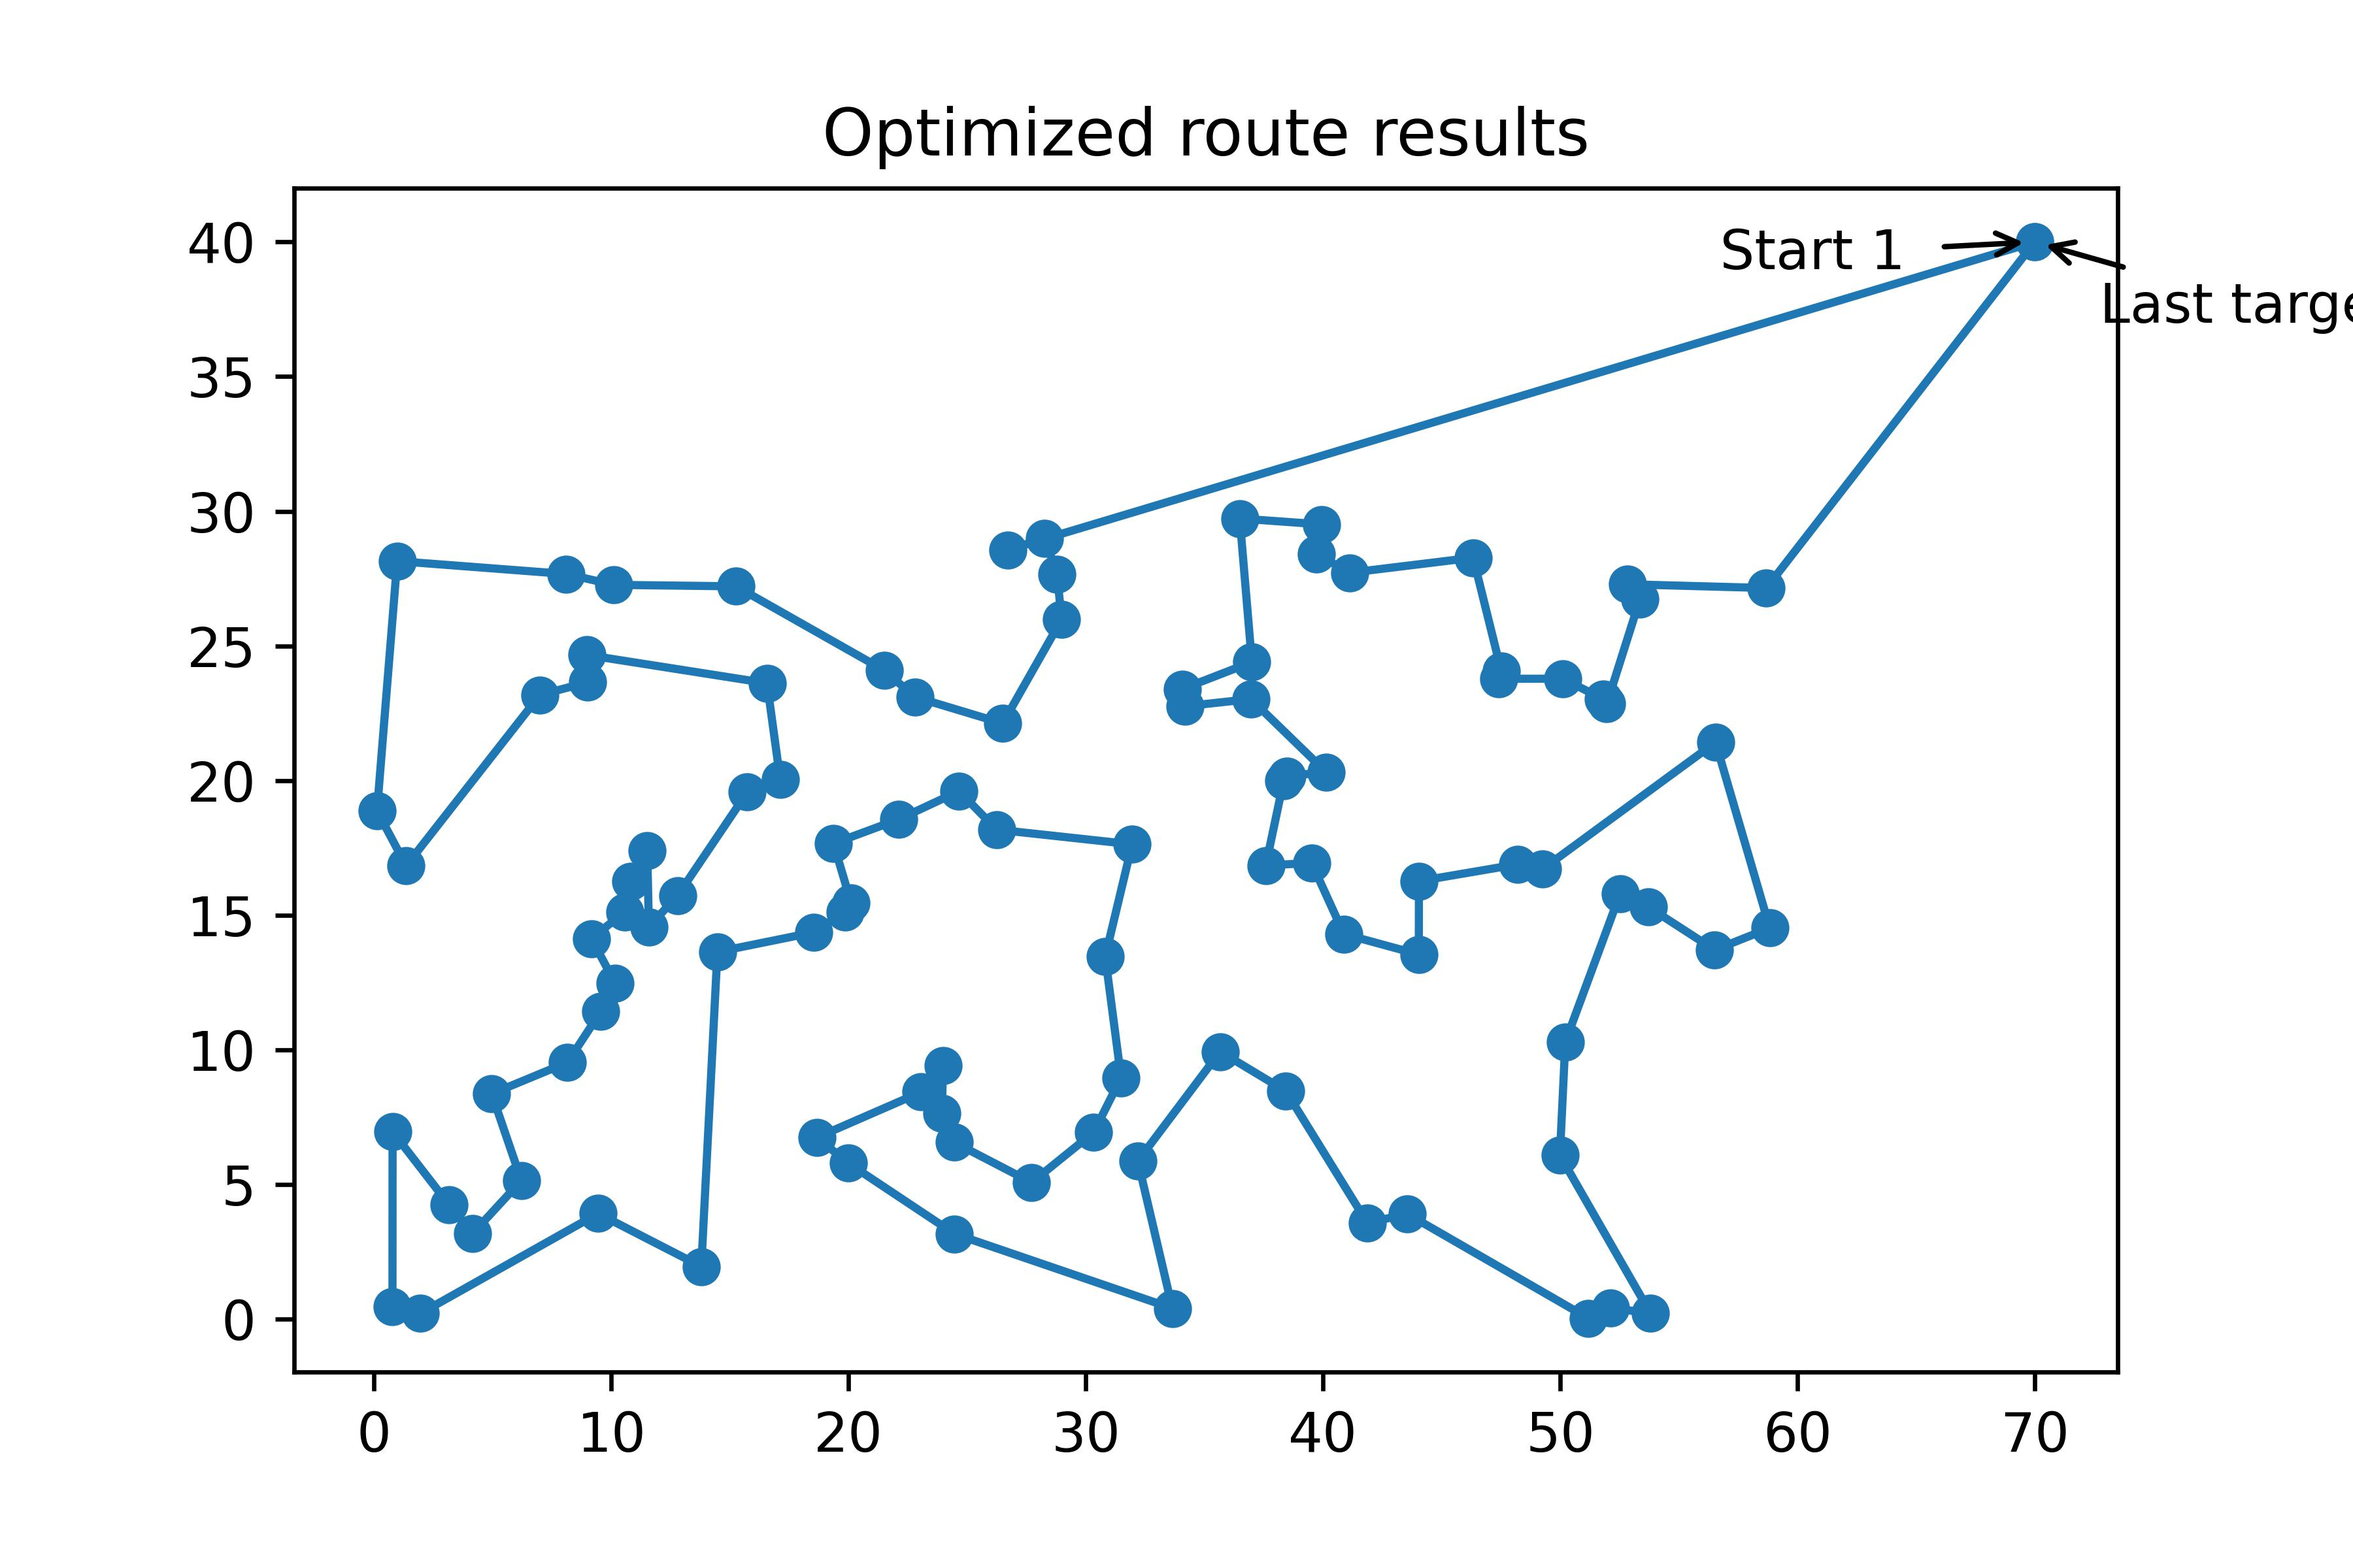
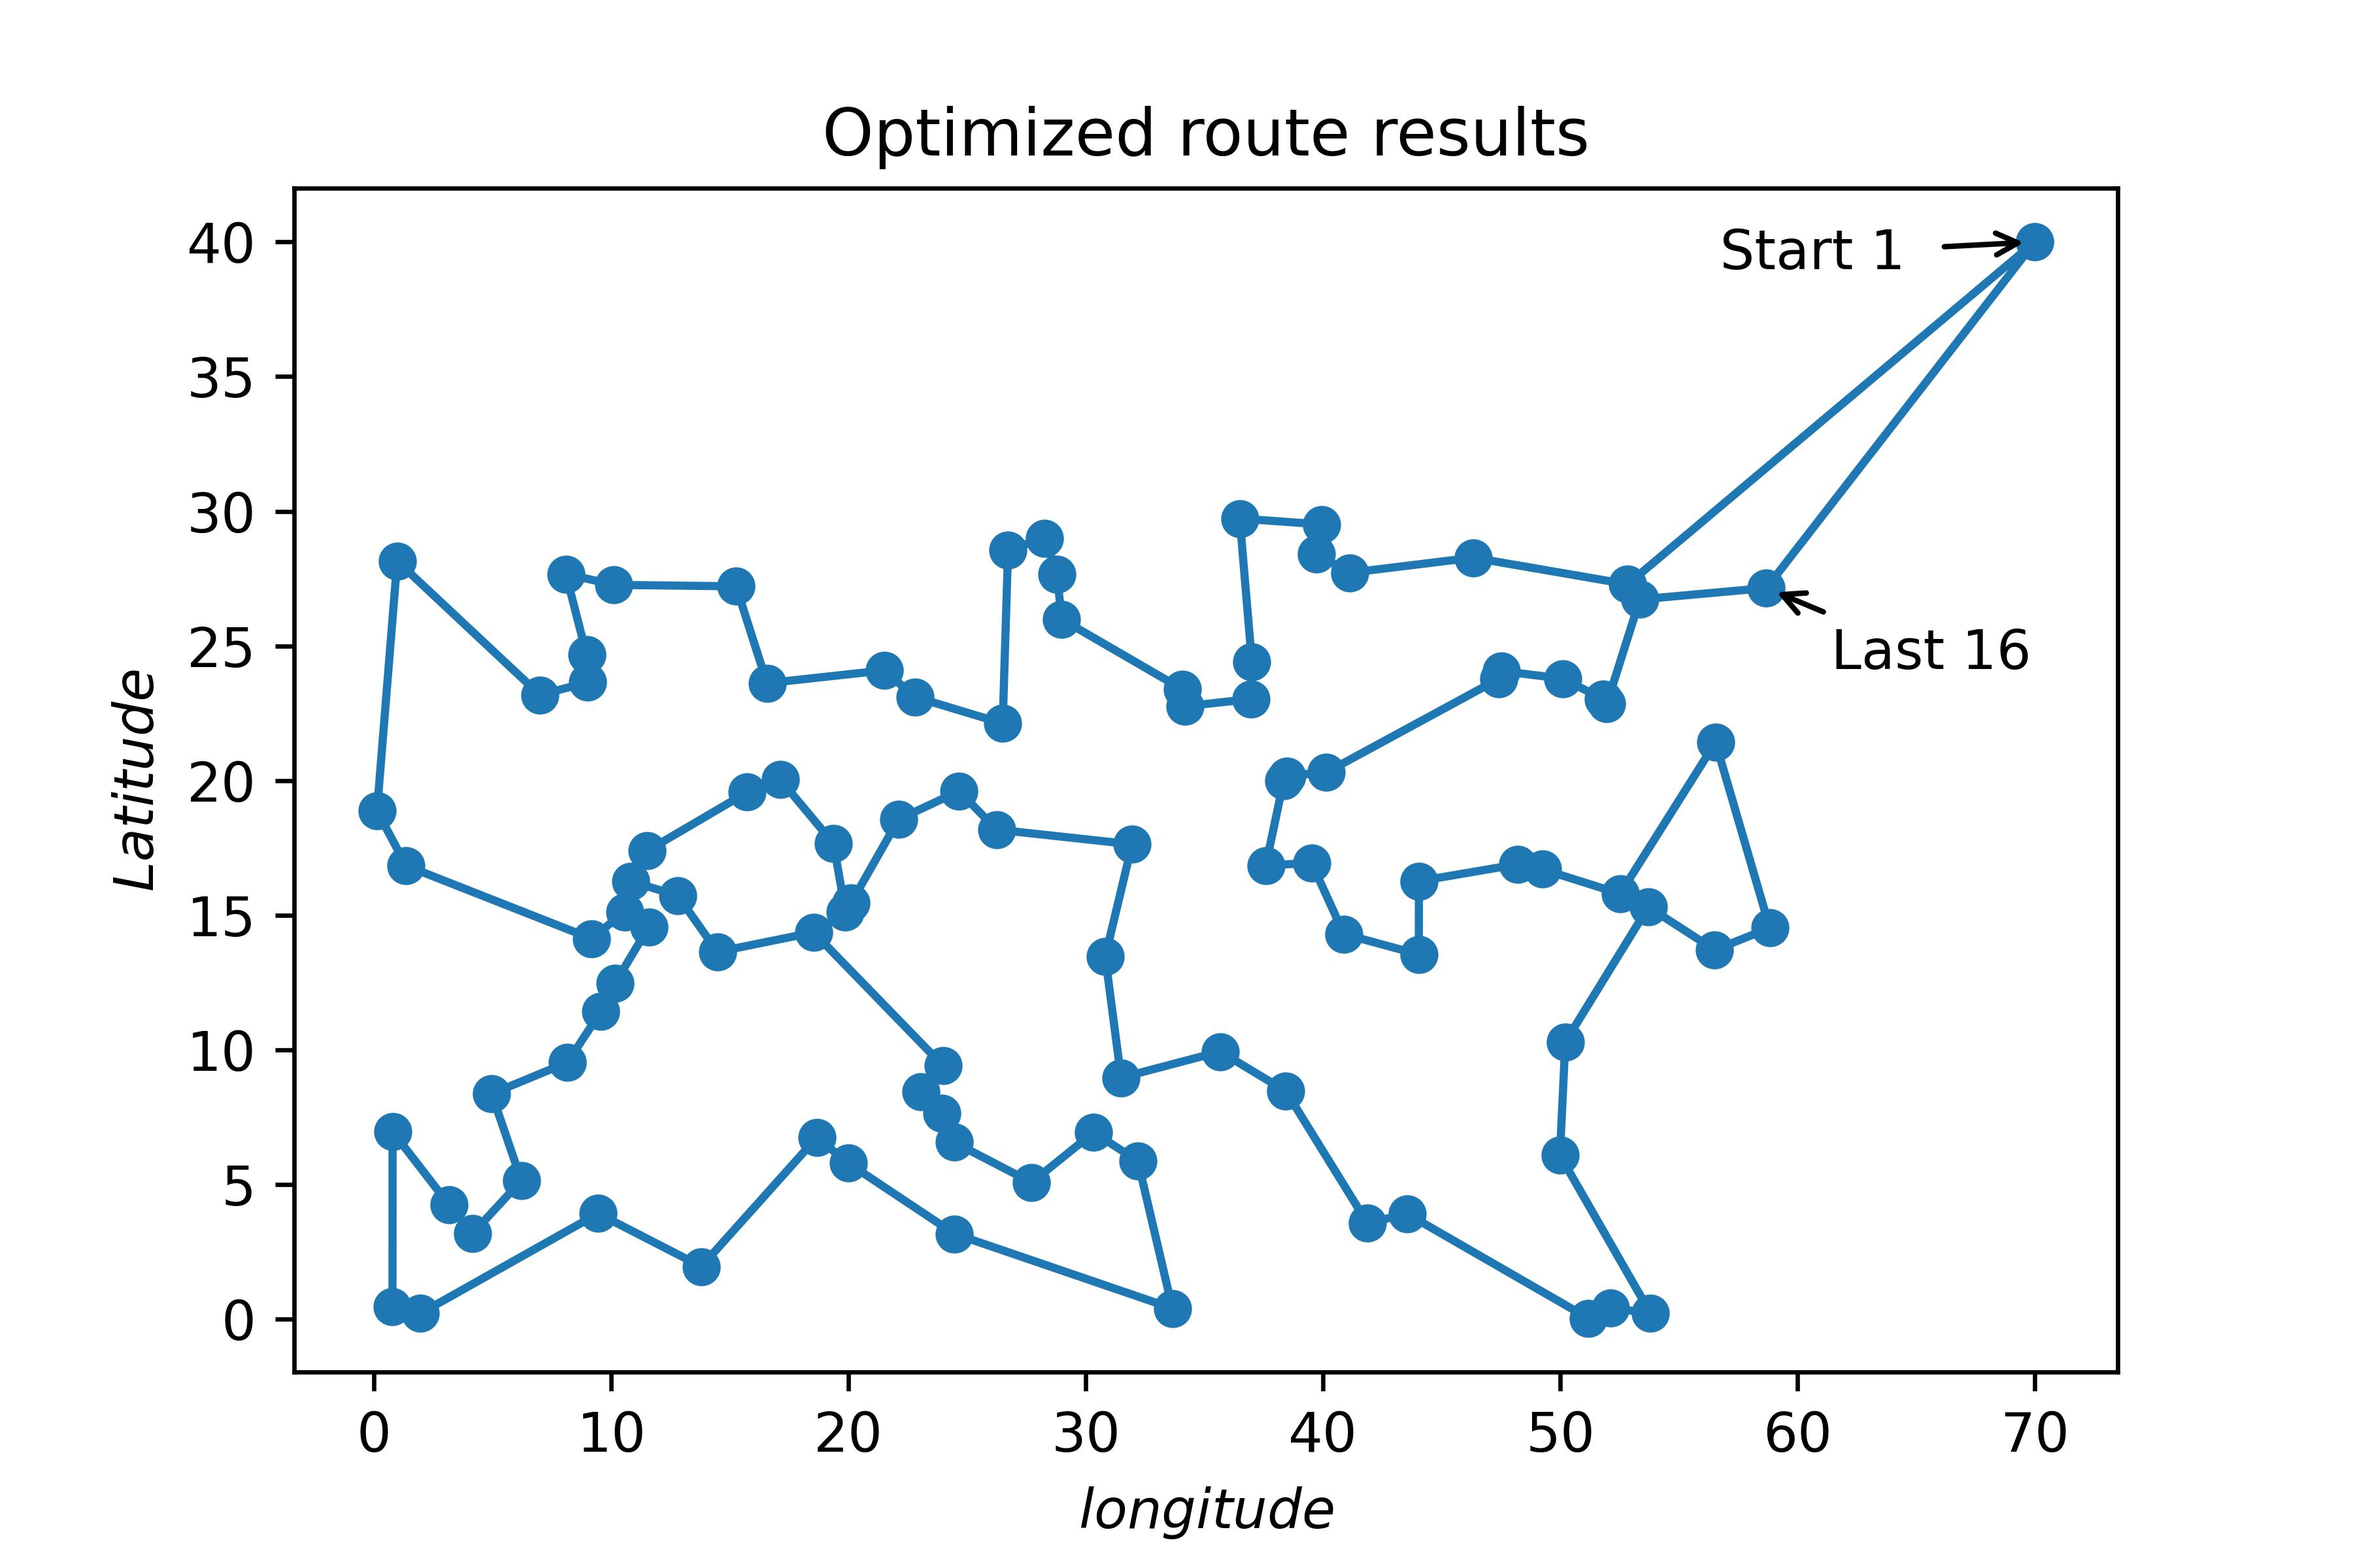
231101

diff --git a/模拟退火算法求解TSP.py b/模拟退火算法求解TSP.py
@@ -8,11 +8,16 @@ Created on Sat Oct 28 21:58:43 2023
 #修改了源代码，将其变为给定初始点（终点）求最优的路径，目前可以得出一条规划好的路线，但可能不是最优的。
 #尤其是在产生新解的方法上有待进一步考虑与改进
 ##
+## 20231101
+#修改了源代码，修改了新路径的更新部分代码。修改了绘制的优化路径图像以及温度与迭代路径长度图像。将数据输出到excel中的2个sheet
+##
+
 
 import random
 import math
 import numpy as np
 import matplotlib.pyplot as plt
+import pandas as pd
 
 
 class SA(object):
@@ -31,7 +36,7 @@ class SA(object):
         init_pathlen = 1. / self.compute_pathlen(self.fire, self.dis_mat)   #贪婪算法求得的路径长度
         init_best = self.location[self.fire]        #贪婪算法求得的初始路径位置
         # 存储存储每个温度下的最终路径，画出收敛图
-        self.iter_x = [0]
+        self.iter_x = [self.T0]
         self.iter_y = [1. / init_pathlen]
     #贪婪策略求初始路径
     def greedy_init(self,dis_mat, num_city):
@@ -100,17 +105,19 @@ class SA(object):
             result.append(length)
         return result
 
-    # 产生一个新的解：随机交换两个元素的位置
+    # 产生一个新的解：随机交换两个元素的位置，即2交换法
     def get_new_fire(self, fire):
         fire = fire.copy()
         #生成1到100间的2个随机数
-        # temp = fire[a]
-        # fire[a] = fire[b]
-        # fire[b] = temp
-       #a, b = np.random.choice(t, 2)
+        #生成1：100，步长为1的数组
         t = [x for x in range(1,len(fire)-1)]
-        a, b = np.random.choice(t, 2)
-        fire[a:b] = fire[a:b][::-1]
+        #取生成数组中的任意两个数作为交换元素
+        c = np.random.choice(t, 2)
+        #将随机数按升序方法排列
+        c = sorted(c)
+        #生成新的路径：根据找到的随机数，c[1]>c[0].
+        #然后将c[0]：c[1]+1(之所以要+1因为python最后一个数会减1)间的路径标号倒置，利用[::-1],生成新路径
+        fire[c[0]:c[1]+1] = fire[c[0]:c[1]+1][::-1] #
         return fire
 
     # 退火策略，根据温度变化有一定概率接受差的解
@@ -143,11 +150,12 @@ class SA(object):
             if file_len < best_length:
                 best_length = file_len
                 best_path = self.fire
+            
+            # 记录路径收敛曲线
+            self.iter_x.append(self.T0)
+            self.iter_y.append(best_length)
             # 降低温度
             self.T0 *= self.rate
-            # 记录路径收敛曲线
-            self.iter_x.append(count)
-            self.iter_y.append(best_length)
             print(count, best_length)
         return best_length, best_path
 
@@ -221,6 +229,7 @@ class SA(object):
 #     result_one.append(102)
 #     return result_one
 
+#读取txt文件中数据
 f=open(r"TSP_Data.txt")
 line = f.readline()
 data_list = []
@@ -229,6 +238,8 @@ while line :
     data_list.append(num)
     line = f.readline()
 f.close()
+
+
 temp_data = np.array(data_list)
 temp_data = np.vstack([temp_data[:,0:2], temp_data[:,2:4],temp_data[:,4:6], temp_data[:,6:8]])    
 #不添加索引
@@ -273,8 +284,19 @@ for i in range(Best_path.shape[0]):
            Best_path[i,0] = data_index[j,0]
            break 
 Best_path[101,0] = 101              
-# 加上一行因为会回到起点
-#Best_path = np.vstack([Best_path, Best_path[0]])
+
+
+#输出求解结果至excel
+writer = pd.ExcelWriter(r'path_out1.xlsx')
+path_out=pd.DataFrame(Best_path)
+path_out.columns=["标号","经度","纬度"]
+path_out.to_excel(writer, sheet_name="路径1")
+Fly_time_out = ['飞行时间/h',Fly_time]
+Fly_time_out = pd.DataFrame(Fly_time_out)
+Fly_time_out .to_excel(writer, sheet_name="飞行时间1")
+writer._save()
+
+
 
 plt.scatter(Best_path[:, 1], Best_path[:,2])
 plt.plot(Best_path[:, 1], Best_path[:, 2])
@@ -283,14 +305,19 @@ plt.title('Optimized route results')
 plt.annotate(' Start 1 ', (70, 40), xytext=(56, 39),
               arrowprops=dict(arrowstyle='->')) 
 #标出最后一个目标点
-plt.annotate(f" Last target {int(Best_path[0,0])}" , (Best_path[0,1],Best_path[0,2]), xytext=(Best_path[0,1]+2, Best_path[0,2]-3),
+plt.annotate(f" Last {int(Best_path[100,0])}" , (Best_path[100,1],Best_path[100,2]), xytext=(Best_path[100,1]+2, Best_path[100,2]-3),
               arrowprops=dict(arrowstyle='->'))
-
+plt.xlabel('$longitude$'); plt.ylabel('$Latitude$')
 plt.savefig('Imag/路线_1000_e10_9995.jpg', dpi=600)
 plt.show()
 
-iterations = model.iter_x
+#将迭代过程的温度与对应的路径长度进行记录
+iteration_t = model.iter_x
 best_record = model.iter_y
-plt.plot(iterations, best_record)
+plt.plot(iteration_t, best_record)
+#反转横坐标
+plt.gca().invert_xaxis()
 plt.title('Convergence curves')
+plt.xlabel('$Temperature$'); plt.ylabel('$Path_Length$')
+plt.savefig('Imag/收敛线_1000_e10_9995.jpg', dpi=600)
 plt.show()
